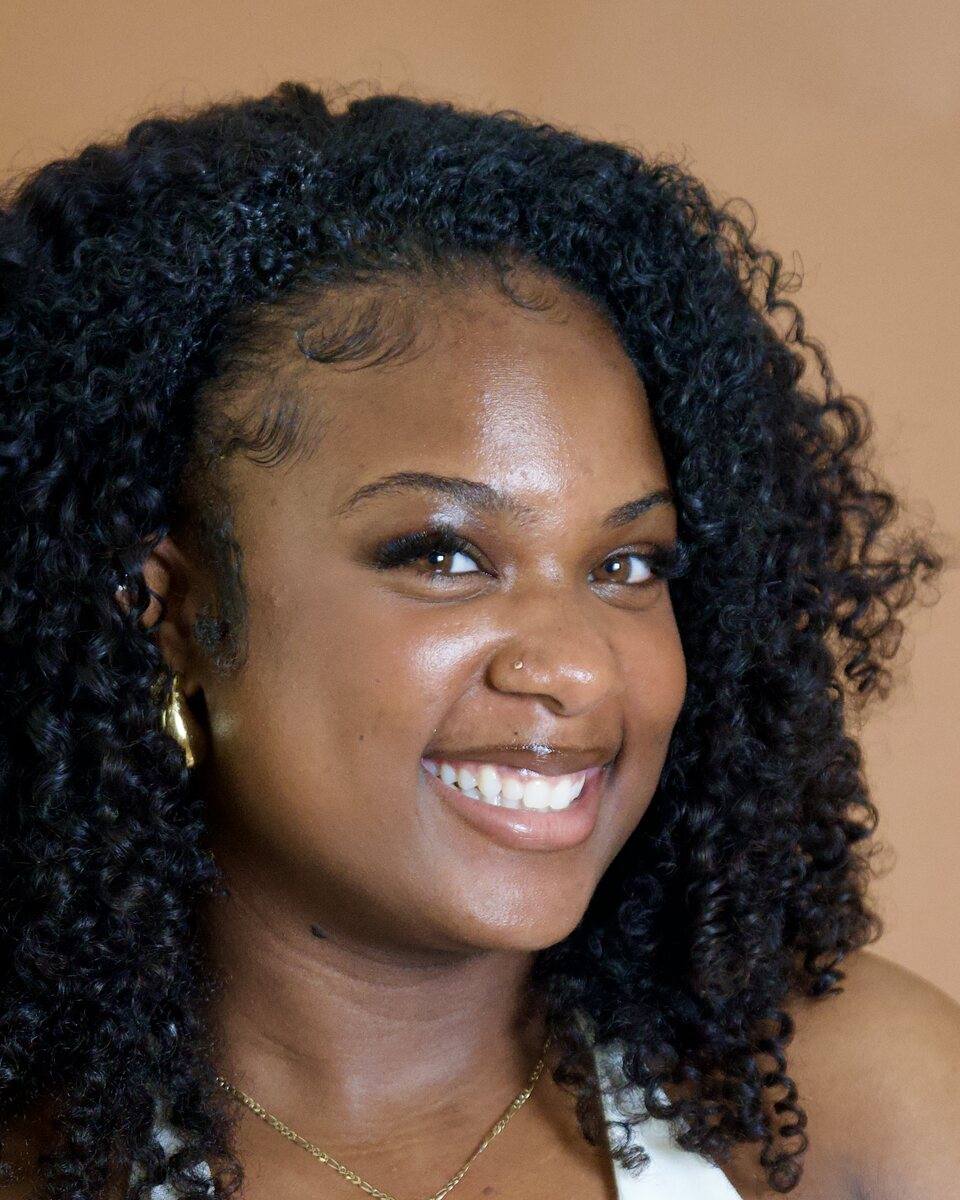
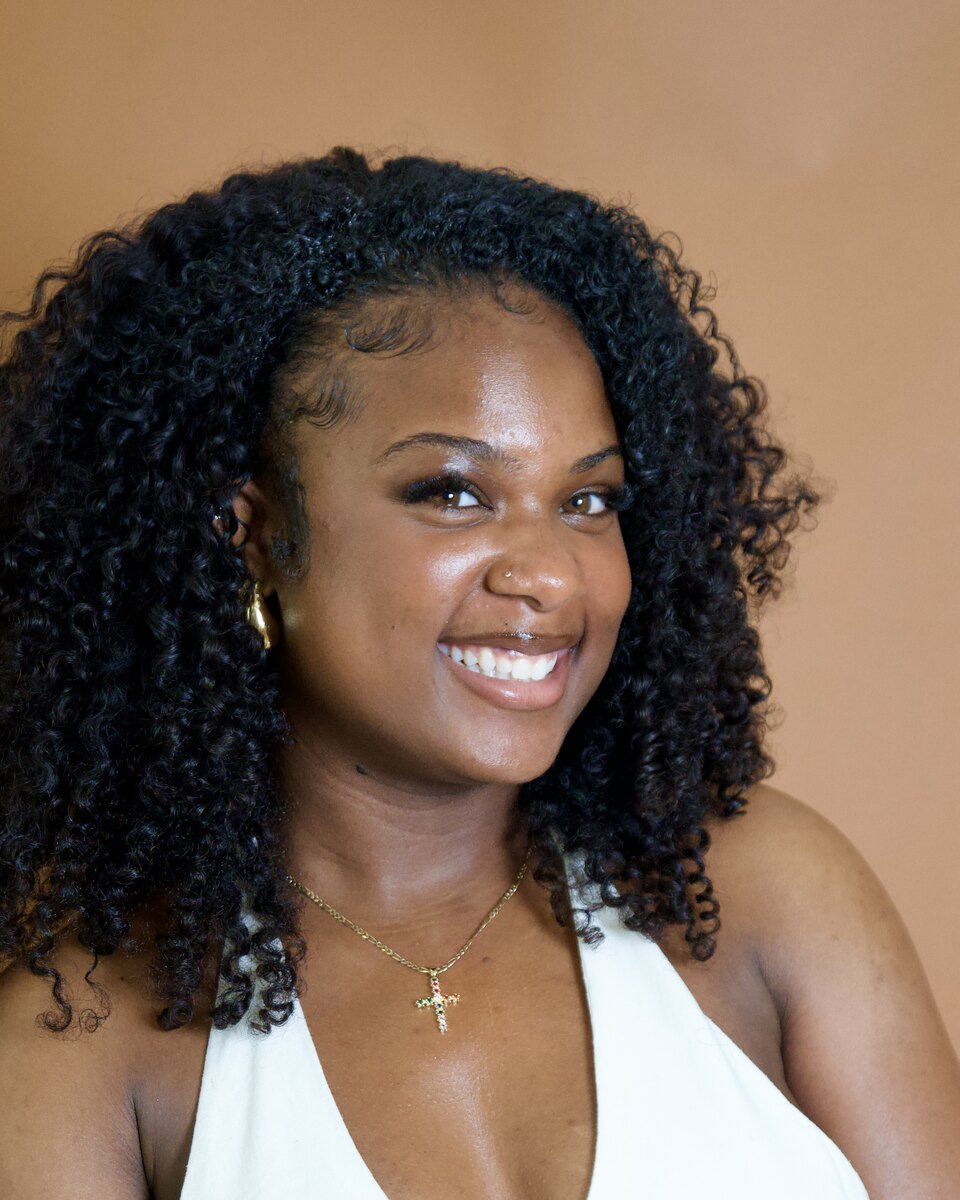
Lock site behind password, add family feedback area, info-session step, MWCN credit, Khaliah headshot and bio, hearts group photo; remove live-session mentions and Session 5 tab

diff --git a/index.html b/index.html
@@ -1,16 +1,17 @@
 <!DOCTYPE html>
-<html lang="en">
+<html lang="en" class="locked">
 <head>
 <meta charset="utf-8" />
-<meta http-equiv="Content-Security-Policy" content="default-src 'self'; script-src 'sha256-GppdFkbR9CCV62rlOiDRCuKMMxxJWTraDwCVq1svFTU='; style-src 'self' 'unsafe-inline' https://fonts.googleapis.com; font-src https://fonts.gstatic.com; img-src 'self' data:; connect-src https://formsubmit.co; form-action 'self'; base-uri 'self'; object-src 'none'; upgrade-insecure-requests" />
+<meta http-equiv="Content-Security-Policy" content="default-src 'self'; script-src 'sha256-ONsHtzUb2bHl8djKtgD62881MmshbySQR1bIYMHRSck='; style-src 'self' 'unsafe-inline' https://fonts.googleapis.com; font-src https://fonts.gstatic.com; img-src 'self' data:; connect-src https://formsubmit.co; form-action 'self'; base-uri 'self'; object-src 'none'; upgrade-insecure-requests" />
 <meta name="referrer" content="strict-origin-when-cross-origin" />
+<meta name="robots" content="noindex, nofollow, noimageindex" />
 <meta name="viewport" content="width=device-width, initial-scale=1, viewport-fit=cover" />
 <title>Girls With Purpose · Confidence for girls 7–10 · Châteauguay</title>
 <meta name="description" content="Girls With Purpose is a non-profit program in Châteauguay that builds confidence in girls aged 7 to 10. Weekly meet-ups over 8 to 10 week sessions. Register your girl today." />
 <meta name="theme-color" content="#442B20" />
 <meta property="og:title" content="Girls With Purpose" />
 <meta property="og:description" content="Building confident girls, ages 7–10, in Châteauguay." />
-<meta property="og:image" content="https://girlswithpurpose.ca/assets/hero-1.jpg" />
+<meta property="og:image" content="https://girlswithpurpose.ca/assets/logo.png" />
 <meta property="og:url" content="https://girlswithpurpose.ca/" />
 <meta property="og:type" content="website" />
 <link rel="canonical" href="https://girlswithpurpose.ca/" />
@@ -18,7 +19,6 @@
 <link rel="preconnect" href="https://fonts.googleapis.com" />
 <link rel="preconnect" href="https://fonts.gstatic.com" crossorigin />
 <link href="https://fonts.googleapis.com/css2?family=Archivo:wdth,wght@62..125,300..900&display=swap" rel="stylesheet" />
-<link rel="preload" as="image" href="assets/hero-1.jpg" />
 <style>
   /* ============ TOKENS: pink + brown ============ */
   :root {
@@ -153,7 +153,8 @@
   .sec-head { display: flex; align-items: flex-end; justify-content: space-between; gap: 20px; margin-bottom: 24px; flex-wrap: wrap; }
   .sec-head h2 { font-size: clamp(34px, 6vw, 76px); margin-top: 10px; }
   .steps { display: grid; gap: 14px; counter-reset: s; list-style: none; }
-  @media (min-width: 860px) { .steps { grid-template-columns: repeat(3, 1fr); } }
+  @media (min-width: 620px) { .steps { grid-template-columns: repeat(2, 1fr); } }
+  @media (min-width: 1080px) { .steps { grid-template-columns: repeat(4, 1fr); } }
   .step { border: 1px solid var(--line); border-radius: 20px; padding: 26px; background: var(--bg-2); counter-increment: s; }
   .step::before { content: "0" counter(s); display: block; font-size: 52px; font-weight: 900; font-stretch: 120%; line-height: 1; color: var(--pink); margin-bottom: 14px; }
   .step h3 { font-size: 20px; font-weight: 800; font-stretch: 110%; margin-bottom: 6px; }
@@ -182,7 +183,7 @@
   .shot img { width: 100%; height: 100%; object-fit: cover; transition: transform .8s var(--ease); }
   .shot:hover img { transform: scale(1.05); }
   .shot video { width: 100%; height: 100%; object-fit: cover; display: block; }
-  .shot__play { position: absolute; left: 12px; top: 12px; display: inline-flex; align-items: center; gap: 6px; padding: 6px 12px 6px 8px; border-radius: 999px; background: var(--pink); color: var(--dark-ink); font-size: 10px; font-weight: 800; letter-spacing: .16em; text-transform: uppercase; }
+  .shot__play { position: absolute; left: 12px; top: 12px; display: inline-flex; align-items: center; gap: 6px; padding: 8px; border-radius: 999px; background: var(--pink); color: var(--dark-ink); font-size: 10px; font-weight: 800; letter-spacing: .16em; text-transform: uppercase; }
   .shot__play svg { width: 14px; height: 14px; }
   .now-card { margin: 0 var(--pad); border-radius: 24px; padding: clamp(28px, 5vw, 56px); background: linear-gradient(135deg, var(--brown), #583628 70%); border: 1px solid var(--line); display: grid; gap: 18px; justify-items: start; }
   .now-card h4 { font-size: clamp(28px, 4.4vw, 52px); }
@@ -346,6 +347,36 @@
     .hero__slide { transition: opacity .01s; transform: none; }
     .live i { animation: none; }
   }
+  /* ============ MWCN ============ */
+  .mwcn { margin-top: 18px; padding: 14px 18px; border-left: 4px solid var(--hot); border-radius: 0 14px 14px 0; background: rgba(236,92,147,.1); font-size: 15px !important; }
+  /* ============ FEEDBACK ============ */
+  .fb { padding-block: clamp(40px, 6vw, 80px); border-top: 1px solid var(--line); }
+  .fb__grid { display: grid; gap: clamp(20px, 4vw, 56px); align-items: start; }
+  @media (min-width: 900px) { .fb__grid { grid-template-columns: 1fr 1.1fr; } }
+  .fb__lead { color: var(--muted); max-width: 52ch; margin-bottom: 14px; }
+  .fb .form form { display: grid; gap: 16px; }
+  .fb fieldset { border: 0; padding: 0; margin: 0; }
+  .fb__ok { font-size: 14px; display: flex; gap: 12px; align-items: flex-start; cursor: pointer; }
+  .fb__quotes { display: grid; gap: 14px; margin-bottom: clamp(24px, 4vw, 44px); }
+  @media (min-width: 760px) { .fb__quotes { grid-template-columns: repeat(3, 1fr); } }
+  .fb__q { border: 1px solid var(--line); border-radius: 20px; padding: 24px; background: var(--bg-2); display: grid; gap: 14px; align-content: space-between; }
+  .fb__q p { font-size: 16px; }
+  .fb__q span { display: inline-flex; align-items: center; gap: 8px; font-size: 10px; font-weight: 800; letter-spacing: .18em; text-transform: uppercase; color: var(--pink); }
+  .fb__q svg { width: 16px; height: 16px; }
+  /* ============ SITE PASSWORD GATE ============ */
+  .gate { display: none; }
+  html.locked, html.locked body { overflow: hidden; }
+  html.locked body > :not(.gate) { display: none !important; }
+  html.locked .gate { position: fixed; inset: 0; z-index: 999; display: grid; place-items: center; padding: 20px; overflow: auto; background: radial-gradient(120% 90% at 50% 0%, var(--brown), var(--bg) 70%); }
+  .gate__card { width: min(100%, 420px); display: grid; gap: 14px; justify-items: center; text-align: center; padding: clamp(24px, 5vw, 40px); border-radius: 28px; background: rgba(68,43,32,.85); border: 1px solid var(--line-strong); box-shadow: 0 40px 80px -30px rgba(0,0,0,.8); }
+  .gate__card img { width: 150px; height: auto; }
+  .gate__card h1 { font-size: clamp(28px, 6vw, 40px); }
+  .gate__card p { color: var(--muted); font-size: 15px; }
+  .gate__card input { width: 100%; min-height: 52px; padding: 12px 16px; border-radius: 14px; border: 1.5px solid var(--line-strong); background: #fff; color: #2b1810; font: inherit; font-size: 16px; text-align: center; letter-spacing: .12em; }
+  .gate__card input:focus { outline: none; border-color: var(--hot); box-shadow: 0 0 0 4px rgba(236,92,147,.3); }
+  .gate__card a { font-size: 13px; color: var(--muted); text-decoration: underline; text-underline-offset: 3px; }
+  .gate__err { color: var(--pink) !important; font-weight: 700; }
+  .sr { position: absolute; width: 1px; height: 1px; overflow: hidden; clip-path: inset(50%); }
 </style>
 </head>
 <body>
@@ -378,18 +409,31 @@
   <a href="#contact">Contact</a>
 </nav>
 
+<div class="gate grain" id="gate">
+  <form class="gate__card" id="gateForm" novalidate>
+    <img src="assets/logo.png" alt="Girls With Purpose" width="900" height="578" />
+    <p class="lock__tag">Private preview</p>
+    <h1 class="display">This site is <em>locked</em></h1>
+    <p>Our website is private for now. Enter the password to continue.</p>
+    <label class="sr" for="gatePass">Password</label>
+    <input id="gatePass" type="password" autocomplete="current-password" placeholder="Password" required />
+    <p class="gate__err" id="gateErr" role="alert" hidden>That password isn’t right. Please try again.</p>
+    <button class="pill pill--pink pill--full" type="submit">Enter</button>
+    <a href="mailto:girlswithpurpose2025@outlook.com">girlswithpurpose2025@outlook.com</a>
+  </form>
+</div>
+
 <main id="main">
   <!-- HERO: group-photo slideshow -->
   <section class="hero grain" id="top" aria-roledescription="carousel" aria-label="Girls With Purpose photos">
     <div class="hero__slides" id="slides">
-      <div class="hero__slide is-on" style="background-image:url('assets/hero-1.jpg')"></div>
+      <div class="hero__slide is-on" data-bg="assets/hero-1.jpg"></div>
       <div class="hero__slide" data-bg="assets/hero-2.jpg" style="background-position:center 30%"></div>
       <div class="hero__slide" data-bg="assets/hero-3.jpg" style="background-position:center 45%"></div>
       <div class="hero__slide" data-bg="assets/hero-4.jpg" style="background-position:center 60%"></div>
     </div>
     <div class="hero__scrim"></div>
     <div class="hero__inner">
-      <span class="live"><i></i> Session in progress now</span>
       <h1 class="display" id="heroTitle">Girls With <em>Purpose</em></h1>
       <p class="hero__tag">A non-profit program in Châteauguay that builds confidence in girls aged 7 to 10, one week at a time.</p>
       <div class="hero__cta">
@@ -410,6 +454,7 @@
           <h2 class="display">Every girl has a <em>purpose</em></h2>
           <p>Girls With Purpose is a non-profit that empowers young girls and builds their confidence. We bring girls aged 7 to 10 together once a week to create, move, talk and cheer each other on.</p>
           <p>We believe confidence is built by doing. So every week the girls try something new, speak up in front of the group, and leave knowing a little more about who they are and what they can do.</p>
+          <p class="mwcn"><b>Supported by MWCN.</b> Girls With Purpose is an initiative supported by the Montérégie West Community Network (MWCN). It is thanks to their support that we were able to launch.</p>
           <div class="stats">
             <div><b>7–10</b><span>Years old</span></div>
             <div><b>8–10</b><span>Weeks a session</span></div>
@@ -444,6 +489,7 @@
       </div>
       <ol class="steps">
         <li class="step rv"><h3>Sign up for a session</h3><p>Each session runs 8 to 10 weeks. Fill in the form and send the $70 registration by e-transfer.</p></li>
+        <li class="step rv"><h3>Attend the info session</h3><p>Before the first week, parents and guardians come to a 30 to 45 minute info session to meet the team and see the centre where the sessions are held.</p></li>
         <li class="step rv"><h3>Meet once a week</h3><p>The girls meet on one set day each week at 259 Boul. D’Anjou in Châteauguay.</p></li>
         <li class="step rv"><h3>Celebrate together</h3><p>Every session ends with a celebration where the girls share what they made and learned.</p></li>
       </ol>
@@ -465,12 +511,6 @@
       <div class="tabs" id="tabs" role="tablist" aria-label="Sessions"></div>
       <div class="sess-meta" id="sessMeta"></div>
       <div class="rail" id="rail" tabindex="0" aria-label="Session photos"></div>
-      <div class="now-card grain" id="nowCard" hidden>
-        <span class="live"><i></i> Happening now</span>
-        <h4 class="display">We’re in session <em>right now</em></h4>
-        <p>Our current group is meeting every week. Photos will be added here once the session wraps up. Want your girl in the next one? Send us her registration and we’ll save her a spot.</p>
-        <a class="pill pill--pink" href="#register">Register for the next session</a>
-      </div>
     </div>
   </section>
 
@@ -492,7 +532,6 @@
           <ul class="creds">
             <li>McGill nursing student</li>
             <li>3 years as a substitute teacher</li>
-            <li>Founder, Girls With Purpose</li>
           </ul>
         </div>
       </article>
@@ -511,7 +550,7 @@
           <div>
             <span class="role">Volunteer</span>
             <h3>Khaliah McIntosh</h3>
-            <p>Khaliah volunteers with Girls With Purpose and helps facilitate the sessions, supporting the girls and the team.</p>
+            <p>“I currently attend Vanier College and study special education techniques. I have a background in therapeutic activities, intervention planning, psycho-education and creating adaptations to environments, and I have staged and worked in different special needs schools over the years. I’m very passionate about helping kids reach their full potential, feel confident in their skills, and allowing them the space to grow independently through activities!”</p>
           </div>
         </article>
       </div>
@@ -546,8 +585,8 @@
           <div class="lock__card">
             <div class="lock__icon"><svg viewBox="0 0 24 24" fill="none" stroke="currentColor" stroke-width="2.4" stroke-linecap="round" stroke-linejoin="round" aria-hidden="true"><rect x="4.5" y="10.5" width="15" height="10" rx="2.5"/><path d="M8 10.5V7.5a4 4 0 0 1 8 0v3"/><circle cx="12" cy="15.5" r="1.2" fill="currentColor"/></svg></div>
             <p class="lock__tag">Locked</p>
-            <h3 class="display">Session in progress</h3>
-            <p>Registration is closed while our girls are in session. It unlocks before the next session starts.</p>
+            <h3 class="display">Registration closed</h3>
+            <p>Registration is closed for now. It unlocks before the next session starts.</p>
             <a class="pill pill--pink pill--sm" href="mailto:girlswithpurpose2025@outlook.com?subject=Next%20Girls%20With%20Purpose%20session">Email us about the next session</a>
           </div>
         </div>
@@ -617,6 +656,45 @@
     </div>
   </section>
 
+  <!-- FEEDBACK -->
+  <section class="fb" id="feedback">
+    <div class="wrap">
+      <div class="sec-head rv"><div><p class="eyebrow">For GWP families</p><h2 class="display">Share your <em>feedback</em></h2></div></div>
+      <div class="fb__quotes" id="fbQuotes" hidden></div>
+      <div class="fb__grid">
+        <div class="rv">
+          <p class="fb__lead">Parents, guardians and girls who have taken part in a session can tell us how it went. Feedback is anonymous: we never ask for your name.</p>
+          <p class="fb__lead">Once enough families have written in, feedback is shared on this page as coming from verified GWP parents and participants.</p>
+        </div>
+        <div class="form rv">
+          <form id="fbGate" novalidate>
+            <div class="f"><label for="fbPass">Family password</label><input id="fbPass" type="password" autocomplete="off" placeholder="Given to GWP families" required /></div>
+            <p class="err" id="fbGateErr" role="alert" hidden>That password isn’t right. Ask the Girls With Purpose team for the family password.</p>
+            <button class="pill pill--pink pill--full" type="submit">Unlock the feedback form</button>
+          </form>
+          <form id="fbForm" novalidate hidden>
+            <fieldset class="f"><legend>I am a</legend>
+              <label class="radio"><input type="radio" name="From" value="Parent or guardian" required /> <span>Parent or guardian</span></label>
+              <label class="radio"><input type="radio" name="From" value="Participant" /> <span>Participant (one of the girls)</span></label>
+            </fieldset>
+            <div class="f"><label for="fbSess">Which session? (optional)</label>
+              <select id="fbSess" name="Session"><option value="Not specified">Prefer not to say</option><option>Session 1</option><option>Session 2</option><option>Christmas Special</option><option>Session 3</option><option>Session 4</option><option>Session 5</option></select></div>
+            <div class="f"><label for="fbText">Your feedback</label><textarea id="fbText" name="Feedback" rows="5" maxlength="1200" required placeholder="What did you or your girl enjoy? What could we do better?"></textarea></div>
+            <label class="radio fb__ok"><input type="checkbox" name="May be posted" value="Yes" checked /> <span>Girls With Purpose may share this feedback anonymously on its website.</span></label>
+            <input type="text" name="_honey" tabindex="-1" autocomplete="off" style="position:absolute;left:-9999px" aria-hidden="true" />
+            <p class="err" id="fbErr" role="alert" hidden></p>
+            <button class="pill pill--pink pill--full" id="fbBtn" type="submit">Send anonymous feedback</button>
+          </form>
+          <div class="done" id="fbDone" tabindex="-1" hidden>
+            <div class="done__tick"><svg viewBox="0 0 24 24" fill="none" stroke="currentColor" stroke-width="3" stroke-linecap="round" stroke-linejoin="round"><path d="M5 12.5l4.5 4.5L19 7.5"/></svg></div>
+            <h4 class="display">Thank you</h4>
+            <p>Your feedback was sent anonymously to the Girls With Purpose team.</p>
+          </div>
+        </div>
+      </div>
+    </div>
+  </section>
+
   <!-- SOCIAL -->
   <section class="social" id="social">
     <div class="wrap">
@@ -655,7 +733,7 @@
     </div>
     <div class="footer__bot">
       <img class="footer__logo" src="assets/logo.png" alt="Girls With Purpose" loading="lazy" style="width:110px;margin:0" />
-      <span>© <span id="yr">2026</span> Girls With Purpose · Non-profit · Châteauguay, Québec</span>
+      <span>© <span id="yr">2026</span> Girls With Purpose · Non-profit · Châteauguay, Québec · An initiative supported by the Montérégie West Community Network (MWCN)</span>
     </div>
   </div>
 </footer>
@@ -676,10 +754,22 @@
   'use strict';
   const $ = (s, r = document) => r.querySelector(s), $$ = (s, r = document) => [...r.querySelectorAll(s)];
   const reduce = matchMedia('(prefers-reduced-motion: reduce)').matches;
+  const sha = async t => [...new Uint8Array(await crypto.subtle.digest('SHA-256', new TextEncoder().encode(t.trim().toUpperCase())))].map(b => b.toString(16).padStart(2, '0')).join('');
+  const store = { get: k => { try { return localStorage.getItem(k); } catch { return null; } }, set: (k, v) => { try { localStorage.setItem(k, v); } catch {} } };
+
+  /* ---------- EDIT HERE: site password. Set SITE_LOCKED to false to open the site to everyone. ---------- */
[2 lines of base64/hex data omitted]
+  /* ---------- EDIT HERE: feedback approved for the site. Shown only once there are more than 5. ---------- */
+  const FEEDBACK = [
+    // { from: 'parent', text: '…' },  or  { from: 'participant', text: '…' }
+  ];
+
+  const start = () => {
+  document.documentElement.classList.remove('locked');
 
   /* ---------- EDIT HERE: sessions + photos (sorted by the date each photo was taken) ---------- */
   const SESSIONS = [
-    { id: 'now', tab: 'Now · Session 5', title: 'Session 5', date: 'In progress', blurb: '', photos: [] },
     { id: 's4', tab: 'Session 4', title: 'Session 4', date: 'Wed · July 8 – Sept 11, 2026', blurb: 'Summer session: painting, bird houses, a dog visit, gardening and scrapbooks.', videos: ['3961','4196','4482'],
       photos: ['4587','3949','3960','4189','4197','4201','4259','4269','4339','4359','4392','4404','4474'] },
     { id: 's3', tab: 'Session 3', title: 'Session 3', date: 'Wed · Feb 4 – April 24, 2026', blurb: 'Friendship boards, pizza night, presentations, gym days and archery.', videos: ['3085','3262','gym'],
@@ -734,8 +824,8 @@
 
   /* ---------- sessions ---------- */
   const lb = $('#lb');
-  const tabs = $('#tabs'), rail = $('#rail'), meta = $('#sessMeta'), nowCard = $('#nowCard'), arrows = $('#railArrows');
-  let active = SESSIONS[1], list = [];
+  const tabs = $('#tabs'), rail = $('#rail'), meta = $('#sessMeta'), arrows = $('#railArrows');
+  let active = SESSIONS[0], list = [];
   /* clips play silently only while they are on screen */
   const vio = new IntersectionObserver(es => es.forEach(en => { const v = $('video', en.target); if (!v) return; if (en.isIntersecting && !reduce && !lb.classList.contains('is-open')) v.play().catch(() => {}); else v.pause(); }), { threshold: .6 });
   SESSIONS.forEach(s => {
@@ -747,10 +837,8 @@
   function show(s) {
     active = s;
     $$('.tab', tabs).forEach(t => t.setAttribute('aria-selected', t.dataset.id === s.id));
-    const isNow = !s.photos.length;
-    nowCard.hidden = !isNow; rail.hidden = isNow; arrows.style.visibility = isNow ? 'hidden' : '';
     const vids = s.videos || [];
-    meta.innerHTML = isNow ? '' : `<div><h3>${s.title}</h3><p>${s.blurb}</p></div><p class="date">${s.date} · ${s.photos.length} photos${vids.length ? ` · ${vids.length} video${vids.length > 1 ? 's' : ''}` : ''}</p>`;
+    meta.innerHTML = `<div><h3>${s.title}</h3><p>${s.blurb}</p></div><p class="date">${s.date} · ${s.photos.length} photos${vids.length ? ` · ${vids.length} video${vids.length > 1 ? 's' : ''}` : ''}</p>`;
     /* videos are slotted in after the 1st, 3rd and 5th photo */
     list = s.photos.map(p => ({ src: src(s, p) }));
     vids.forEach((v, k) => list.splice(Math.min(1 + k * 3, list.length), 0, { video: `assets/${s.id}/v-${v}.mp4`, src: `assets/${s.id}/v-${v}.jpg` }));
@@ -760,7 +848,7 @@
       b.className = 'shot'; b.type = 'button'; b.style.setProperty('--i', Math.min(i, 6));
       if (it.video) {
         b.classList.add('shot--video'); b.setAttribute('aria-label', `Play video from ${s.title}`);
-        b.innerHTML = `<video muted loop playsinline preload="none" poster="${it.src}" src="${it.video}"></video><span class="shot__play" aria-hidden="true"><svg viewBox="0 0 24 24" fill="currentColor"><path d="M8 5.5v13l11-6.5z"/></svg>Video</span>`;
+        b.innerHTML = `<video muted loop playsinline preload="none" poster="${it.src}" src="${it.video}"></video><span class="shot__play" aria-hidden="true"><svg viewBox="0 0 24 24" fill="currentColor"><path d="M8 5.5v13l11-6.5z"/></svg></span>`;
         vio.observe(b);
       } else {
         b.setAttribute('aria-label', `Open photo from ${s.title}`);
@@ -816,16 +904,14 @@
   });
 
   /* ---------- registration form → emailed to Girls With Purpose via FormSubmit ---------- */
-  /* ---------- EDIT HERE: set to true to unlock registration, false to lock it during a session ---------- */
+  /* ---------- EDIT HERE: set to true to unlock registration, false to lock it ---------- */
   const REGISTRATION_OPEN = false;
   if (!REGISTRATION_OPEN) {
     regSec.classList.add('is-locked');
     $('#regForm').inert = true; $('#regForm').setAttribute('aria-hidden', 'true');
-    $('.reg__lead').textContent = 'Registration is locked while a session is in progress. It opens again before the next session starts.';
-    $('#ctaBar .pill').textContent = 'Registration opens after this session';
+    $('.reg__lead').textContent = 'Registration is closed for now. It opens again before the next session starts.';
+    $('#ctaBar .pill').textContent = 'Registration opens soon';
     $$('.hero__cta .pill--pink, .header__actions .pill--pink').forEach(a => a.textContent = a.closest('.hero__cta') ? 'Next session info' : 'Register');
-    const np = $('#nowCard p'); np.textContent = 'Our current group is meeting every week, so registration is locked for now. Photos will be added here once the session wraps up.';
-    $('#nowCard .pill').textContent = 'See registration';
   }
   const FORM_TO = 'girlswithpurpose2025@outlook.com';
   const form = $('#regForm'), err = $('#formErr'), btn = $('#submitBtn'), done = $('#done');
@@ -861,6 +947,57 @@
   } else $$('.rv').forEach(el => el.classList.add('is-in'));
 
   $('#yr').textContent = new Date().getFullYear();
+
+  /* ---------- anonymous feedback (family password) ---------- */
+  const fbGate = $('#fbGate'), fbForm = $('#fbForm'), fbErr = $('#fbErr'), fbBtn = $('#fbBtn'), fbDone = $('#fbDone');
+  fbGate.addEventListener('submit', async e => {
+    e.preventDefault();
+    const ok = await sha($('#fbPass').value) === FEEDBACK_KEY;
+    $('#fbGateErr').hidden = ok;
+    if (ok) { fbGate.hidden = true; fbForm.hidden = false; $('input', fbForm).focus(); }
+  });
+  fbForm.addEventListener('submit', async e => {
+    e.preventDefault(); fbErr.hidden = true;
+    if (!fbForm.checkValidity()) { fbErr.textContent = 'Please choose parent or participant and write your feedback.'; fbErr.hidden = false; return; }
+    const data = Object.fromEntries(new FormData(fbForm));
+    if (data._honey) return;
+    if (!data['May be posted']) data['May be posted'] = 'No';
+    data._subject = 'New anonymous GWP feedback'; data._template = 'table'; data._captcha = 'false';
+    fbBtn.disabled = true; fbBtn.textContent = 'Sending…';
+    try {
+      const r = await fetch('https://formsubmit.co/ajax/' + FORM_TO, { method: 'POST', headers: { 'Content-Type': 'application/json', Accept: 'application/json' }, body: JSON.stringify(data) });
+      const j = await r.json().catch(() => ({}));
+      if (!r.ok || String(j.success) === 'false') throw new Error('send failed');
+      fbForm.hidden = true; fbDone.hidden = false; fbDone.focus();
+    } catch {
+      fbErr.textContent = 'We couldn’t send your feedback just now. Please try again in a moment.';
+      fbErr.hidden = false; fbBtn.disabled = false; fbBtn.textContent = 'Send anonymous feedback';
+    }
+  });
+  if (FEEDBACK.length > 5) {
+    const q = $('#fbQuotes'); q.hidden = false;
+    FEEDBACK.forEach(f => {
+      const c = document.createElement('figure'); c.className = 'fb__q';
+      const t = document.createElement('p'); t.textContent = '“' + f.text + '”';
+      const who = document.createElement('span');
+      who.innerHTML = '<svg viewBox="0 0 24 24" fill="none" stroke="currentColor" stroke-width="2.6" stroke-linecap="round" stroke-linejoin="round" aria-hidden="true"><path d="M5 12.5l4.5 4.5L19 7.5"/></svg>';
+      who.append(f.from === 'participant' ? 'Verified GWP participant' : 'Verified GWP parent');
+      c.append(t, who); q.append(c);
+    });
+  }
+  };
+
+  /* ---------- site password gate ---------- */
+  if (!SITE_LOCKED || store.get('gwp-key') === SITE_KEY) start();
+  else {
+    $('#gatePass').focus();
+    $('#gateForm').addEventListener('submit', async e => {
+      e.preventDefault();
+      const h = await sha($('#gatePass').value);
+      if (h === SITE_KEY) { store.set('gwp-key', h); scrollTo(0, 0); start(); }
+      else { $('#gateErr').hidden = false; $('#gatePass').select(); }
+    });
+  }
 })();
 </script>
 </body>
